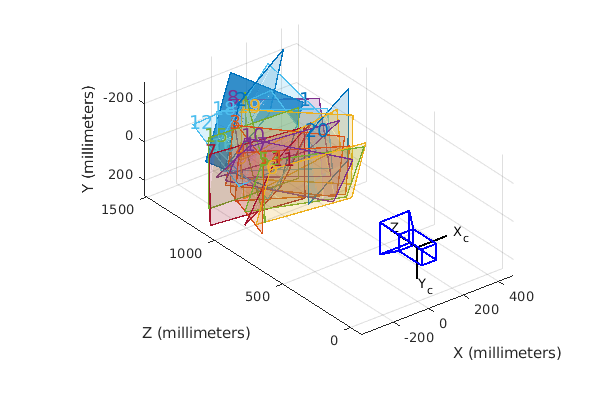
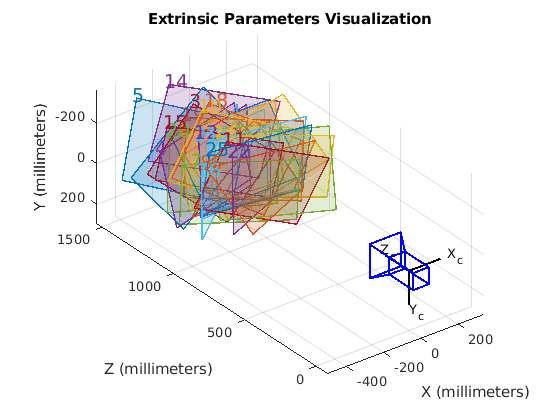
updated the report after calibration with new images

diff --git a/tex_new/see_report_new.tex b/tex_new/see_report_new.tex
@@ -306,17 +306,18 @@ print("The null hypothesis cannot be rejected")
 					\item The camera calibration toolbox for MATLAB is installed.
 					\item The webcam (Microsoft Lifecam) is connected to the laptop and the connectivity is checked by running \textit{webcam list} command in MATLAB, which shows the list of all webcams connected to PC.
 					\item The webcam is mounted on a static paper punch, while capturing the images.
-					\item The Auto-focus is turned \textit{off} by running the following command in MATLAB,
+					\item The Auto-focus is turned on and the camera is made to adjust to the distance of the checkerboard.
+					\item Then the Auto-focus is turned \textit{off} by running the following command in MATLAB,
 					\begin{lstlisting}
 cam.FocalMode = manual
 					\end{lstlisting}
-					\item The images of checkerboard are captured from different perspectives (different position and orientation in the camera's field of view). A total of 20 images are captured and saved for the calibration process.
+					\item The images of checkerboard are captured from different perspectives (different position and orientation in the camera's field of view). A total of 25 images are captured and saved for the calibration process.
 				\end{itemize}
 				
 				\subsection{Estimation of number of images}
 				\begin{itemize}
 					\item Since the object in the world is 3-dimensional and the captured images are 2D (co-planar), we loose one dimension. In order to regain the actual dimensionality during the calibration, various number of images are captured in different positions and orientations. 
-					\item As a rule of thumb, 20-40 images is quite enough for the process. For our calibration we have captured 20 images in different position and orientations. 
+					\item As a rule of thumb, 20-40 images is quite enough for the process. For our calibration we have captured 25 images in different position and orientations. 
 					\item The idea behind the capturing enough images is to cover the field of view, and to have a good distribution of 3D orientations of the board. 
 				\end{itemize}
 				
@@ -362,68 +363,68 @@ cam.FocalMode = manual
 				\[ 
 				Intrinsic Matrix =
 				\begin{bmatrix}
-				648.7381 & 0 & 0 \\
-				-0.5603 & 648.5722 & 0 \\
-				417.6238 & 285.6146 & 1 \\
+				650.1601 & 0 & 0 \\
+				-0.4441 & 649.8506 & 0 \\
+				417.1918 & 288.0535 & 1 \\
 				\end{bmatrix}
 				\]
 				\[ 
 				Focal Length =
 				\begin{bmatrix}
-				648.7381 & 648.5722
+				650.1601 & 649.8506
 				\end{bmatrix}
 				\]
 				\[ 
 				Principal point =
 				\begin{bmatrix}
-				417.6238 & 285.6146
+				417.1918 & 288.0535
 				\end{bmatrix}
 				\]
 				\[ 
-				Skew = -0.5603
+				Skew = -0.4441
 				\]
 				\[
 				Radial distortion = 
 				\begin{bmatrix}
-				-0.0183 & 0.1165
+				-0.0215 & 0.1424
 				\end{bmatrix}
 				\]
 				\[ 
 				Tangential Distortion = 
 				\begin{bmatrix}
-				-0.0016 & 9.2118e-04
+				-9.82e-04 & 0.0010
 				\end{bmatrix}
 				\]
 				\[ 
-				Mean projection error = 0.1516
+				Mean projection error = 0.1031
 				\]
 				\subsection{Estimation errors}
 				\subsubsection{Intrinsic errors}
 				\[
-				Skew error = 0.1173
+				Skew error = 0.0641
 				\]
 				\[
 				Focal length error = 
 				\begin{bmatrix}
-				0.3475 & 0.3245
+				0.3066 & 0.2922
 				\end{bmatrix}
 				\]
 				\[
 				Principal point error = 
 				\begin{bmatrix}
-				0.6292 & 0.5130
+				0.4705 & 0.3823
 				\end{bmatrix}
 				\]
 				\[
 				Radial distortion error = 
 				\begin{bmatrix}
-				0.0028 & 0.0134
+				0.0025 & 0.0167
 				\end{bmatrix}
 				\]
 				\[
 				Tangential distortion error
 				\begin{bmatrix}
-				2.8109e-04 & 3.5275e-04
+				2.1093e-04 & 2.5468e-04
 				\end{bmatrix}
 				\]
 				\subsubsection{Extrinsic errors}
